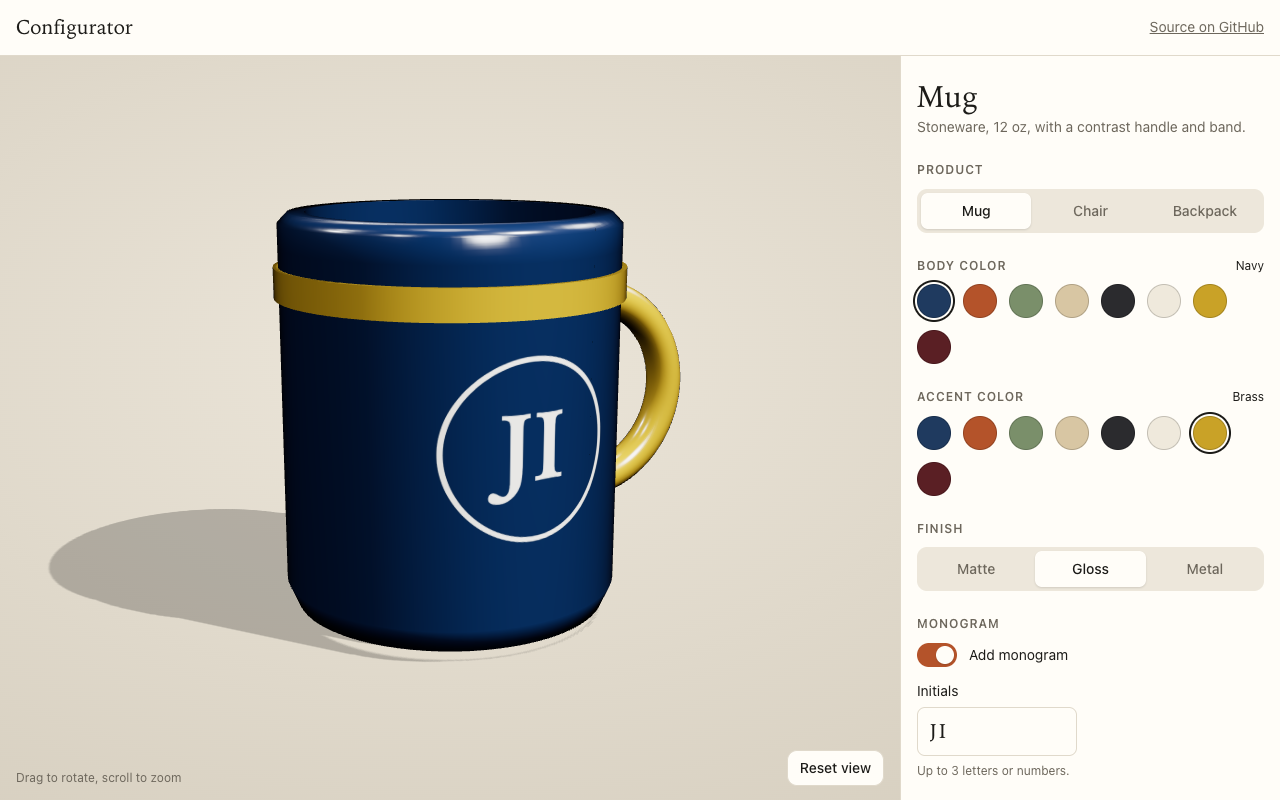
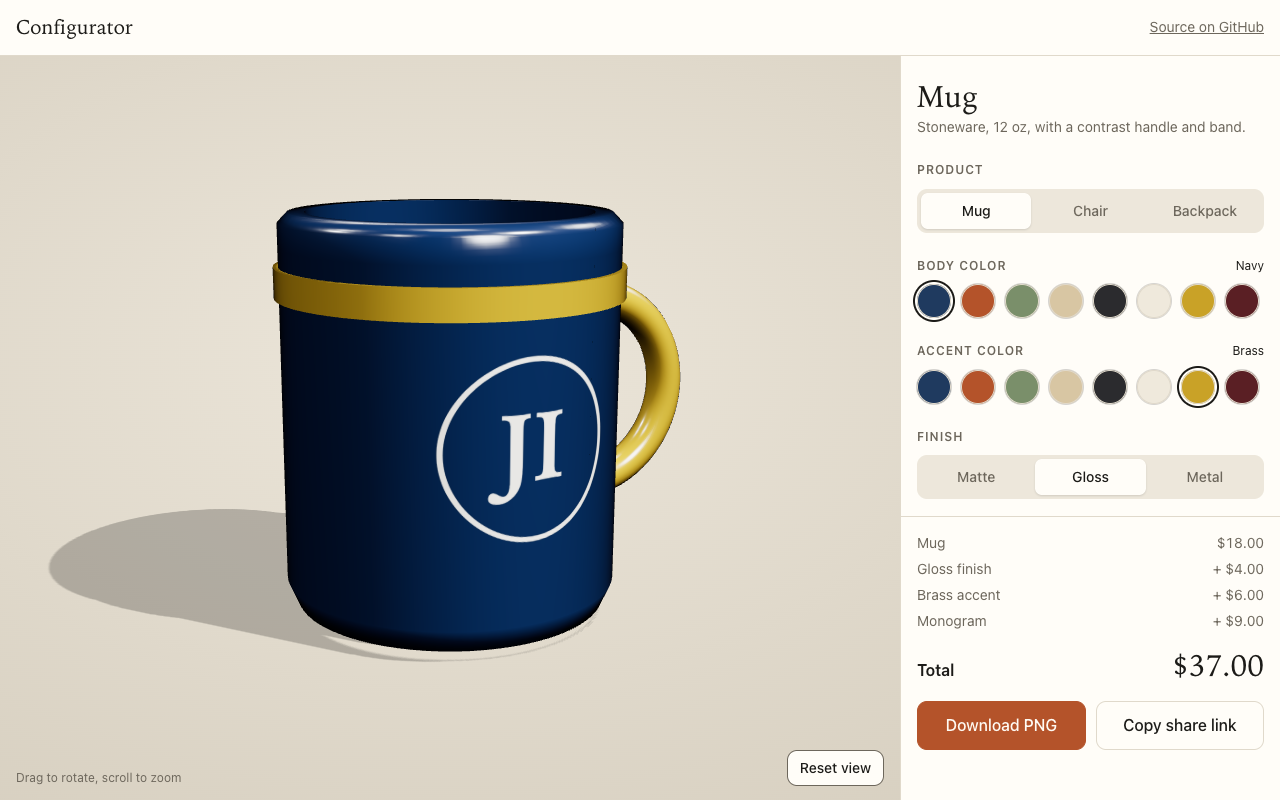
Fix review findings: test runner, share hash, clipboard fallback, chair posts, layout
- npm test runs the spec files by glob; the bare directory ran 0 tests on Node 26
- A monogram with no initials is left out of the share hash, and empty text restores as empty
- Clipboard fallback shows the link in a readonly field that stays until the next status
- Chair rear posts sit behind the back panel instead of passing through it
- Monogram ink takes the finish into account so mid tones stay legible under Metal
- Swatch ring uses theme colours so charcoal has an edge in dark mode
- Price and actions are a sticky footer on desktop; 10px swatch gap fits all eight on one row
- Stage hint and canvas label say pinch on coarse pointers
- Bottom-sheet cue flips to Close while the sheet is open
- Unit tests for the ui.js helpers; e2e covers the fallback, chair geometry, fold and cue
- New README hero shows the price

diff --git a/src/ui.js b/src/ui.js
@@ -35,7 +35,9 @@ export function encodeHash(state) {
   params.set('body', state.body);
   params.set('accent', state.accent);
   params.set('mat', state.material);
-  if (state.monogram) {
+  // Same rule as computePrice and the decal: a monogram with no initials is
+  // not a monogram, so it is not shared as one.
+  if (state.monogram && state.text) {
     params.set('mono', '1');
     params.set('text', state.text);
   }
@@ -55,8 +57,9 @@ export function decodeHash(hash, valid) {
   if (valid.materials.has(material)) patch.material = material;
   if (params.has('mono')) {
     patch.monogram = params.get('mono') === '1';
-    const text = sanitizeMonogram(params.get('text'));
-    if (text) patch.text = text;
+    // An empty string is a valid restored value; it must not fall back to the
+    // default initials.
+    patch.text = sanitizeMonogram(params.get('text'));
   }
   return patch;
 }
@@ -192,9 +195,11 @@ export function createPanel(root, { products, colors, materials, pricing, onChan
     materialGroup.fieldset,
     monogramGroup,
     viewGroup,
-    priceBlock,
-    el('div', { class: 'actions' }, [downloadButton, shareButton]),
-    status,
+    el('div', { class: 'panel-foot' }, [
+      priceBlock,
+      el('div', { class: 'actions' }, [downloadButton, shareButton]),
+      status,
+    ]),
   );
 
   const sheetTitle = document.getElementById('sheet-title');
@@ -225,19 +230,33 @@ export function createPanel(root, { products, colors, materials, pricing, onChan
       sheetTitle.textContent = product.name;
       sheetPrice.textContent = total;
     },
-    setStatus(message) {
-      status.textContent = message;
+    // A plain message clears itself after 4 s. With `sticky` it stays until the
+    // next status. With `link` the URL is shown in a readonly field, selected
+    // and ready to copy, and it also stays.
+    setStatus(message, { sticky = false, link = '' } = {}) {
       clearTimeout(statusTimer);
-      statusTimer = setTimeout(() => { status.textContent = ''; }, 4000);
+      status.replaceChildren(message);
+      if (link) {
+        const field = el('input', {
+          type: 'text', class: 'status-link', readonly: '', value: link, 'aria-label': 'Share link',
+        });
+        field.addEventListener('focus', () => field.select());
+        status.append(field);
+        field.focus();
+        field.select();
+      }
+      if (!sticky && !link) statusTimer = setTimeout(() => { status.textContent = ''; }, 4000);
     },
   };
 }
 
 export function initSheet(panel, stage) {
   const button = panel.querySelector('.sheet-toggle');
+  const cue = panel.querySelector('.sheet-cue');
   const setOpen = (open) => {
     panel.classList.toggle('is-open', open);
     button.setAttribute('aria-expanded', String(open));
+    cue.textContent = open ? 'Close' : 'Customize';
   };
   button.addEventListener('click', () => setOpen(!panel.classList.contains('is-open')));
   stage.addEventListener('pointerdown', () => setOpen(false));

diff --git a/src/main.js b/src/main.js
@@ -97,9 +97,13 @@ function applyFinish(material, hex) {
   material.needsUpdate = true;
 }
 
-function contrastColor(hex) {
+// Picks the monogram ink from the surface colour and its finish. A metal
+// surface reads darker than its swatch because most of what you see is the
+// room reflection, so mid tones like sage, brass and clay get light ink under
+// Metal while bone and sand keep dark ink.
+function contrastColor(hex, preset) {
   const c = new THREE.Color(hex);
-  const luminance = 0.2126 * c.r + 0.7152 * c.g + 0.0722 * c.b;
+  const luminance = (0.2126 * c.r + 0.7152 * c.g + 0.0722 * c.b) * (preset.metalness ? 0.45 : 1);
   return luminance < 0.2 ? '#f7f3ea' : '#1c1b18';
 }
 
@@ -143,7 +147,7 @@ function placeDecal() {
   decal = new THREE.Mesh(
     new DecalGeometry(target, position, orientation, size),
     new THREE.MeshStandardMaterial({
-      map: monogramTexture(state.text, contrastColor(surfaceHex)),
+      map: monogramTexture(state.text, contrastColor(surfaceHex, presetsById.get(state.material))),
       transparent: true,
       depthWrite: false,
       polygonOffset: true,
@@ -191,7 +195,7 @@ function update(patch = {}) {
   applyFinish(materials.accent, colorsById.get(state.accent).hex);
 
   const wantsDecal = state.monogram && state.text.length > 0;
-  const decalChanged = ['product', 'body', 'accent', 'text'].some((k) => state[k] !== prev[k]);
+  const decalChanged = ['product', 'body', 'accent', 'material', 'text'].some((k) => state[k] !== prev[k]);
   if (!wantsDecal) removeDecal();
   else if (!decal || decalChanged) placeDecal();
 
@@ -227,7 +231,9 @@ async function share() {
     await navigator.clipboard.writeText(url);
     panel.setStatus('Link copied to clipboard');
   } catch {
-    panel.setStatus(`Copy this link: ${url}`);
+    // No clipboard access (http, an iframe without the permission, an old
+    // browser). Show the link in a field that stays until the next status.
+    panel.setStatus('Copy this link:', { link: url });
   }
 }
 
@@ -242,6 +248,16 @@ const panel = createPanel(panelRoot, {
 });
 initSheet(document.getElementById('panel'), stage);
 document.getElementById('reset-view').addEventListener('click', resetView);
+
+// Phones have no scroll wheel, so the hint and the canvas label say pinch there.
+const coarsePointer = matchMedia('(pointer: coarse)');
+function setHint() {
+  const zoom = coarsePointer.matches ? 'pinch' : 'scroll';
+  stage.querySelector('.stage-hint').textContent = `Drag to rotate, ${zoom} to zoom`;
+  canvas.setAttribute('aria-label', `3D view of the product. Drag to rotate, ${zoom} to zoom.`);
+}
+setHint();
+coarsePointer.addEventListener('change', setHint);
 
 function resize() {
   const { clientWidth: width, clientHeight: height } = stage;

diff --git a/styles.css b/styles.css
@@ -168,6 +168,8 @@ a {
 
 .panel {
   overflow-y: auto;
+  /* Keeps a focused or scrolled-to control above the sticky footer. */
+  scroll-padding-bottom: 320px;
   border-left: 1px solid var(--line);
   background: var(--surface);
 }
@@ -175,7 +177,7 @@ a {
 .panel-body {
   display: grid;
   gap: 24px;
-  padding: 24px var(--gutter) 32px;
+  padding: 24px var(--gutter) 0;
 }
 
 .panel-head {
@@ -264,10 +266,11 @@ legend {
   outline-offset: 2px;
 }
 
+/* 8 dots at 34px + 7 gaps at 10px = 342px, inside the 348px desktop column. */
 .swatches {
   display: flex;
   flex-wrap: wrap;
-  gap: 12px;
+  gap: 10px;
 }
 
 .swatch {
@@ -281,7 +284,8 @@ legend {
   height: 34px;
   border-radius: 50%;
   background: var(--c);
-  box-shadow: inset 0 0 0 1px rgba(0, 0, 0, 0.18);
+  /* Theme-aware edge so charcoal shows in dark mode and bone in light mode. */
+  box-shadow: inset 0 0 0 1px var(--line), 0 0 0 1px color-mix(in srgb, var(--ink) 18%, transparent);
   cursor: pointer;
   transition: transform 0.15s ease;
 }
@@ -291,7 +295,7 @@ legend {
 }
 
 .swatch input:checked + .swatch-dot {
-  box-shadow: inset 0 0 0 1px rgba(0, 0, 0, 0.18), 0 0 0 2px var(--surface), 0 0 0 4px var(--ink);
+  box-shadow: inset 0 0 0 1px var(--line), 0 0 0 2px var(--surface), 0 0 0 4px var(--ink);
 }
 
 .switch {
@@ -374,9 +378,16 @@ legend {
   color: var(--muted);
 }
 
-.price {
-  padding-top: 20px;
+/* Price and actions stay in view while the controls above scroll. */
+.panel-foot {
+  position: sticky;
+  bottom: 0;
+  display: grid;
+  gap: 14px;
+  margin: 0 calc(-1 * var(--gutter));
+  padding: 16px var(--gutter);
   border-top: 1px solid var(--line);
+  background: var(--surface);
 }
 
 .price-lines {
@@ -418,6 +429,7 @@ legend {
 
 .actions {
   display: grid;
+  grid-template-columns: repeat(auto-fit, minmax(150px, 1fr));
   gap: 10px;
 }
 
@@ -463,6 +475,24 @@ legend {
   font-size: var(--fs-sm);
   color: var(--muted);
   overflow-wrap: anywhere;
+}
+
+.status-link {
+  display: block;
+  width: 100%;
+  margin-top: 6px;
+  padding: 8px 10px;
+  border: 1px solid var(--line);
+  border-radius: 8px;
+  font: inherit;
+  font-size: var(--fs-sm);
+  color: var(--ink);
+  background: var(--surface-2);
+}
+
+.status-link:focus-visible {
+  outline: 2px solid var(--focus);
+  outline-offset: 1px;
 }
 
 .sheet-toggle {
@@ -554,5 +584,15 @@ legend {
     min-height: 0;
     overflow-y: auto;
     padding-top: 8px;
+  }
+
+  /* The sheet header already shows the total, so the footer scrolls with the
+     rest here instead of taking a third of the sheet. */
+  .panel-foot {
+    position: static;
+  }
+
+  .panel {
+    scroll-padding-bottom: 0;
   }
 }

diff --git a/src/products.js b/src/products.js
@@ -64,7 +64,7 @@ function buildChair() {
   const group = new THREE.Group();
 
   const seat = part(
-    new THREE.ExtrudeGeometry(roundedRect(0.98, 0.92, 0.14), {
+    new THREE.ExtrudeGeometry(roundedRect(0.98, 0.94, 0.14), {
       depth: 0.06, bevelEnabled: true, bevelThickness: 0.02, bevelSize: 0.02, bevelSegments: 4, curveSegments: 24,
     }).rotateX(-Math.PI / 2).translate(0, 0.9, 0),
     'body',
@@ -86,18 +86,21 @@ function buildChair() {
   const legGeometry = new THREE.CylinderGeometry(0.04, 0.03, 0.9, 20);
   const postGeometry = new THREE.CylinderGeometry(0.035, 0.03, 1.8, 20);
   const railAcross = new THREE.CylinderGeometry(0.018, 0.018, 0.8, 12).rotateZ(Math.PI / 2);
-  const railAlong = new THREE.CylinderGeometry(0.018, 0.018, 0.72, 12).rotateX(Math.PI / 2);
+  const railAlong = new THREE.CylinderGeometry(0.018, 0.018, 0.8, 12).rotateX(Math.PI / 2);
 
+  // The back panel's walls sit at z -0.398 .. -0.3225 at x = +-0.4 (the bevel
+  // widens the extrude by 0.01). The posts stay fully behind that: their front
+  // edge is at -0.405.
   for (const x of [-0.4, 0.4]) {
     const leg = part(legGeometry, 'accent');
     leg.position.set(x, 0.45, 0.36);
     const post = part(postGeometry, 'accent');
-    post.position.set(x, 0.9, -0.36);
+    post.position.set(x, 0.9, -0.44);
     const side = part(railAlong, 'accent');
-    side.position.set(x, 0.3, 0);
+    side.position.set(x, 0.3, -0.04);
     group.add(leg, post, side);
   }
-  for (const z of [-0.36, 0.36]) {
+  for (const z of [-0.44, 0.36]) {
     const rail = part(railAcross, 'accent');
     rail.position.set(0, 0.3, z);
     group.add(rail);

diff --git a/README.md b/README.md
@@ -43,7 +43,7 @@ The panel reads both files, so nothing else changes.
 
 ## Tests
 
-`test/e2e.spec.mjs` runs on Node's built-in test runner with Playwright. It starts a local server, opens the app in headless Chromium and checks real WebGL draw calls, the pricing table, hash restore, the share link, the PNG download and both layouts. Screenshots land in `test/out/`.
+`test/unit.spec.mjs` covers the pure helpers (hash encode and decode, monogram sanitizing, pricing) with no browser. `test/e2e.spec.mjs` runs on Node's built-in test runner with Playwright. It starts a local server, opens the app in headless Chromium and checks real WebGL draw calls, the pricing table, hash restore, the share link and its no-clipboard fallback, the PNG download, the chair geometry and both layouts. Screenshots land in `test/out/`.
 
 ```
 npm install
